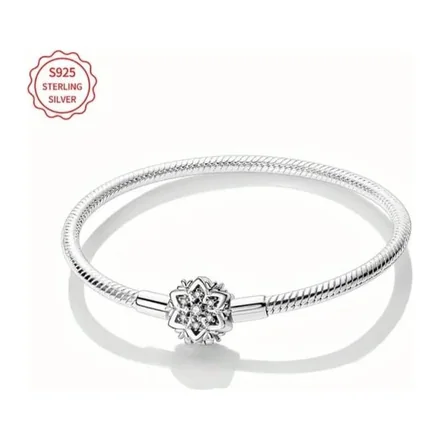
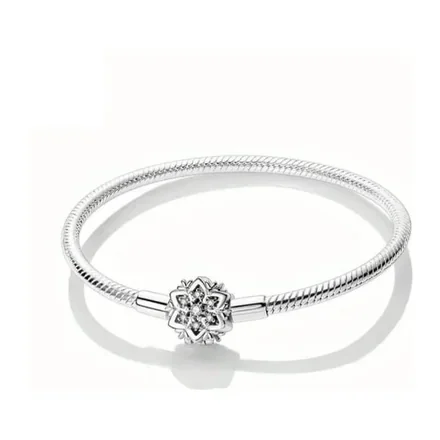
Quitarle el sello al copo de nieve en vez de cambiar la foto
El reemplazo que llegó para esta pulsera viene a 225x225: 183 px de pulsera
contra los 349 de la que ya estaba. Cambiarla habria quitado el sello a costa
de la mitad de la resolucion, que es exactamente el cambio que se reviritio
con el osito hace dos dias.

Habia una tercera salida. El sello no se superpone a la pieza: vive sobre
fondo liso en la esquina contraria, a 200 px de la pulsera mas cercana. Se
borro rellenando cada fila con el color de fondo de esa misma fila, y la foto
conserva sus 349 px. Comprobado que dentro de la caja del sello solo habia 10
px con tinte de plata, y son el antialias del propio sello.

Donde el sello no toque la pieza esto gana a cualquier reemplazo, porque no
cuesta resolucion. Donde la toque no sirve, y hay que comprobarlo cada vez.

La otra foto subida, pulsera-avengers, es el mismo archivo que ya se aplico el
21: procesarla da el mismo md5 que lo que esta publicado. No habia nada que
hacer.

Claude-Session: https://claude.ai/code/session_01VSSPYbyepNN7cMwAcyBYuh

Changed region(s): [[0.0591, 0.0886, 0.2364, 0.2955]]

diff --git a/ESTADO.md b/ESTADO.md
@@ -197,6 +197,17 @@ El guantelete además gana segunda vista (`guantelete-del-infinito-2.webp`,
 registrada en `FOTOS`): el collage que se retiró mostraba frente y dorso, y
 perder el dorso habría sido perder información que el catálogo ya daba.
 
+> **El sello se puede borrar sin cambiar la foto, cuando no toca la pieza.** Se
+> hizo con `pulsera-copo-de-nieve`: el reemplazo que llegó venía a 225×225 —183
+> px de pulsera contra los 349 de la que había—, así que en vez de cambiarla se
+> le quitó el sello a la buena. El sello vivía sobre fondo liso en la esquina
+> opuesta a la pulsera (10 px de plata dentro de la caja, y son antialias), y se
+> rellenó tomando el color de fondo de cada fila. Conserva los 349 px.
+>
+> Sirve solo cuando el sello no se superpone a la pieza; hay que comprobarlo
+> antes, no darlo por hecho. Donde valga, es mejor que cualquier reemplazo,
+> porque no cuesta resolución.
+
 **Lo que sigue sin reemplazo**, porque no llegó o porque el que llegó era peor:
 
 - `escudo-capitan-america` y `corazon-arbol-de-la-vida` — nadie mandó una.
